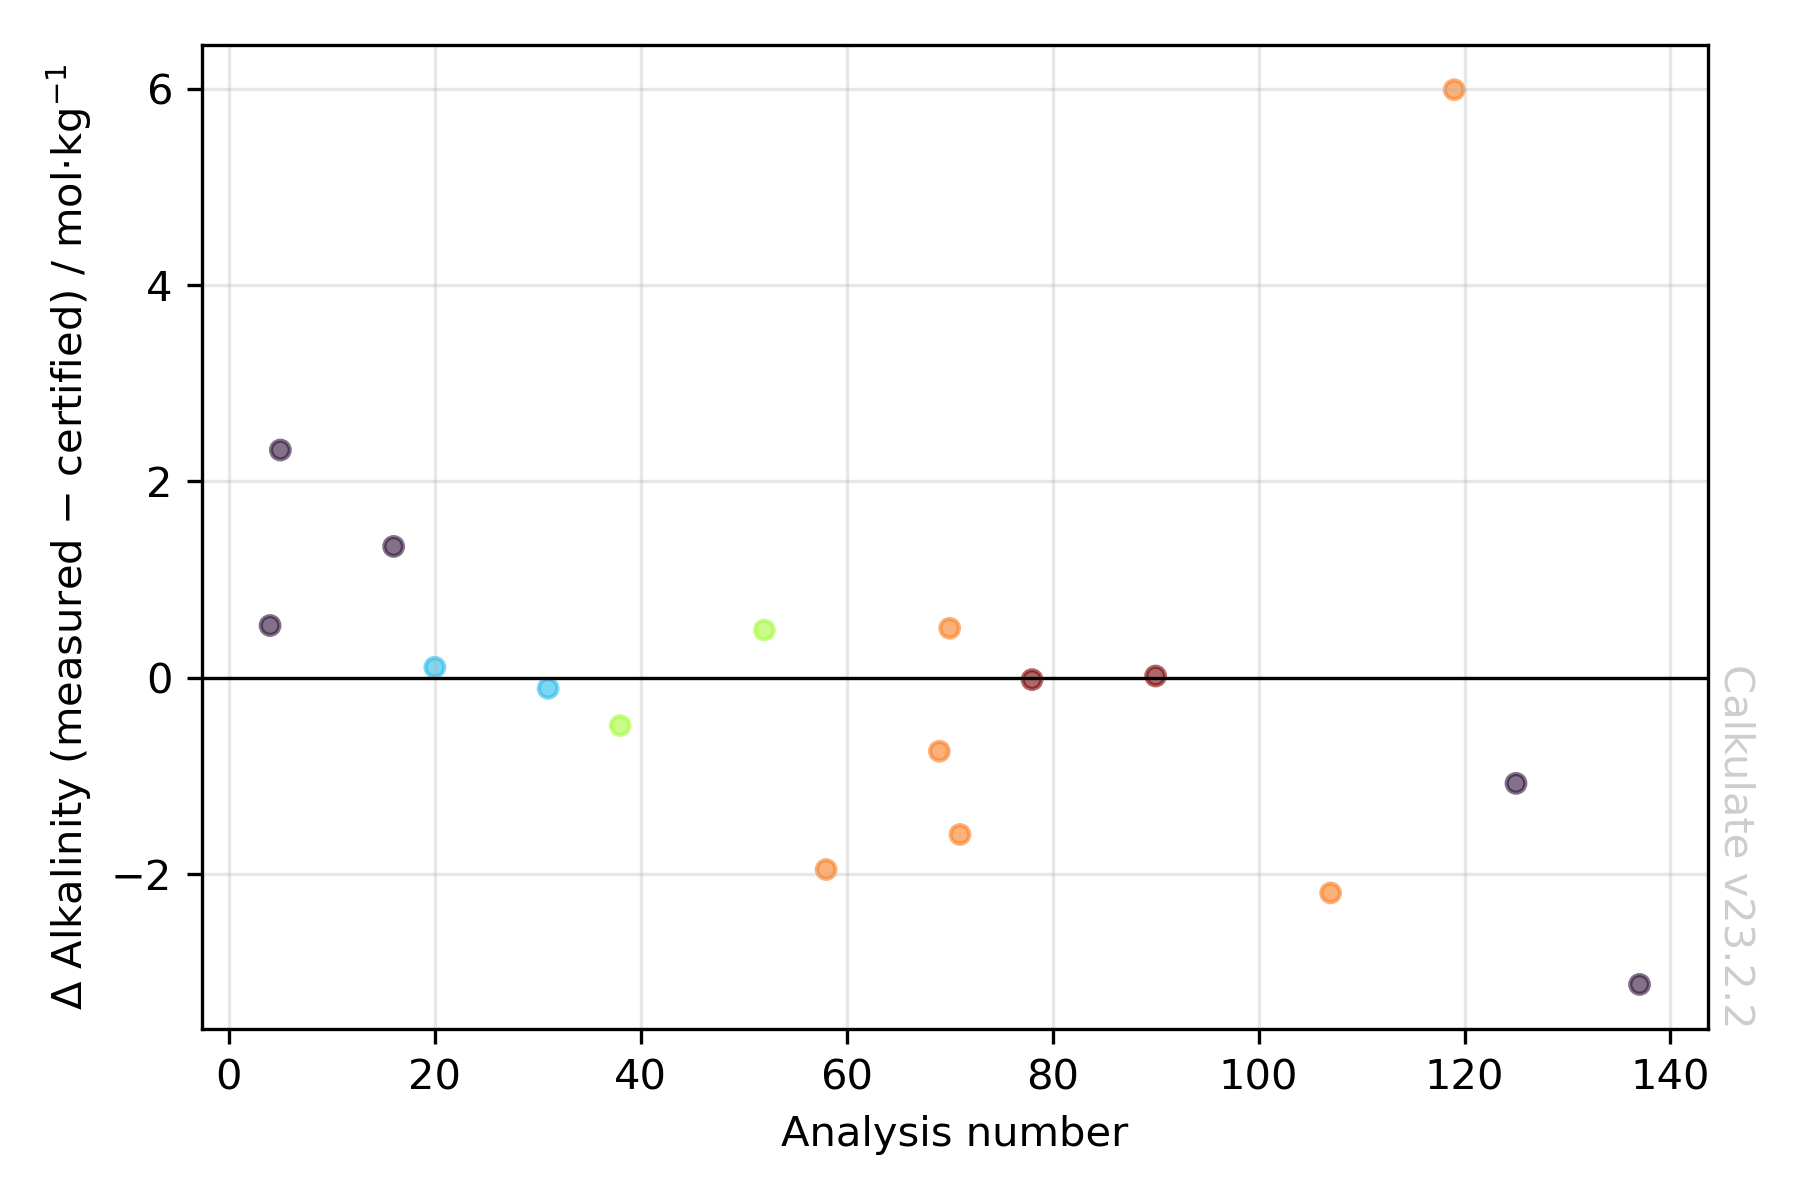
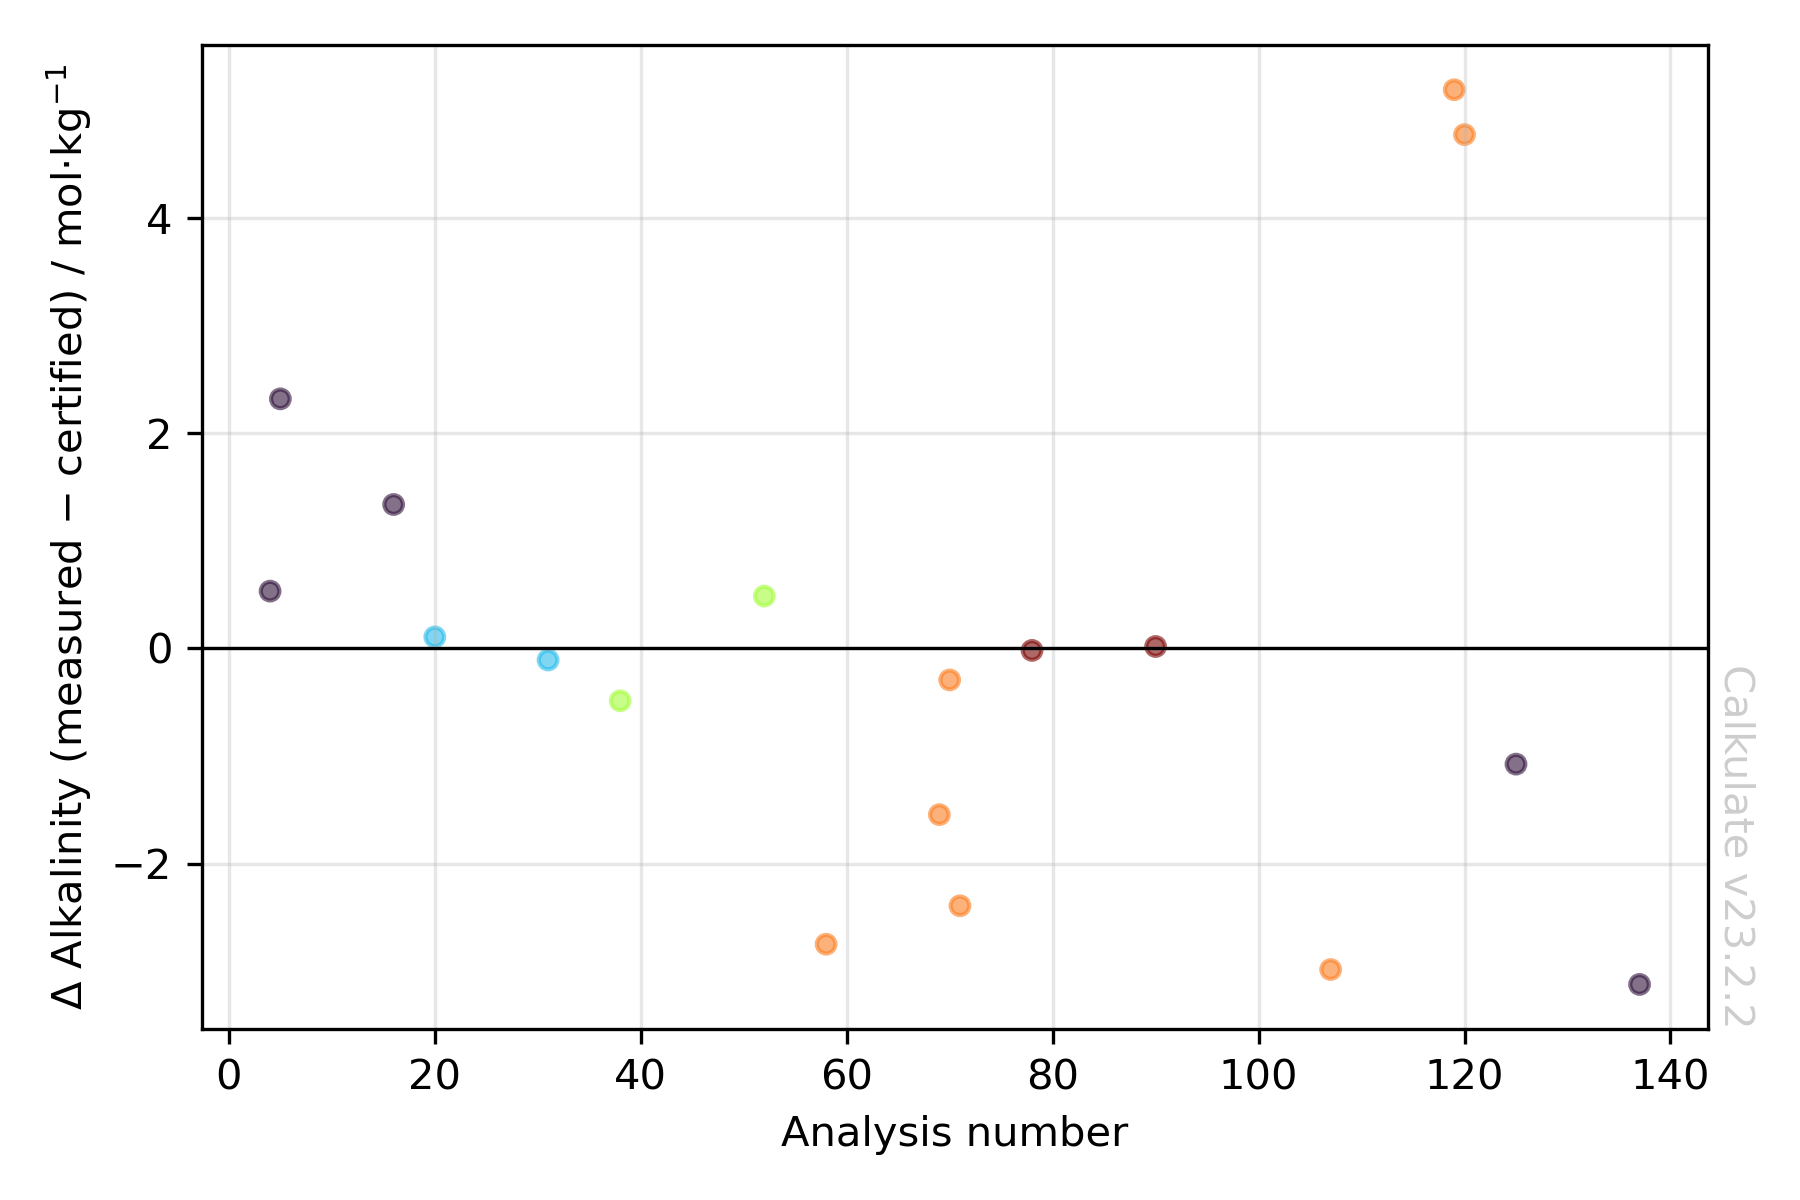
added temp override 23

diff --git a/vindta/storage_test_process.py b/vindta/storage_test_process.py
@@ -147,6 +147,7 @@ dbs.loc[dbs.crm_batch_195, "total_ammonia"] = 0  # micromol/kg-sw
 
 # Assign temperature = 25.0 for VINDTA analysis temperature
 dbs["temperature_override"] = 25.0
+dbs.loc[dbs["analysis_datetime"].dt.day == 19, "temperature_override"] = 23
 
 # Assign salinity to junks and samples
 dbs["salinity"] = dbs["salinity"].fillna(35)
@@ -175,7 +176,6 @@ dbs["reference_good"] = ~np.isnan(dbs.alkalinity_certified)
 dbs.loc[dbs["bottle"] == "CRM-189-0159-3", "reference_good"] = False
 dbs.loc[dbs["bottle"] == "CRM-189-0408-1", "reference_good"] = False
 dbs.loc[dbs["bottle"] == "CRM-189-0408-2", "reference_good"] = False
-dbs.loc[dbs["bottle"] == "CRM-189-0235-3", "reference_good"] = False
 
 # Ignore bad files
 dbs["file_good"] = True
